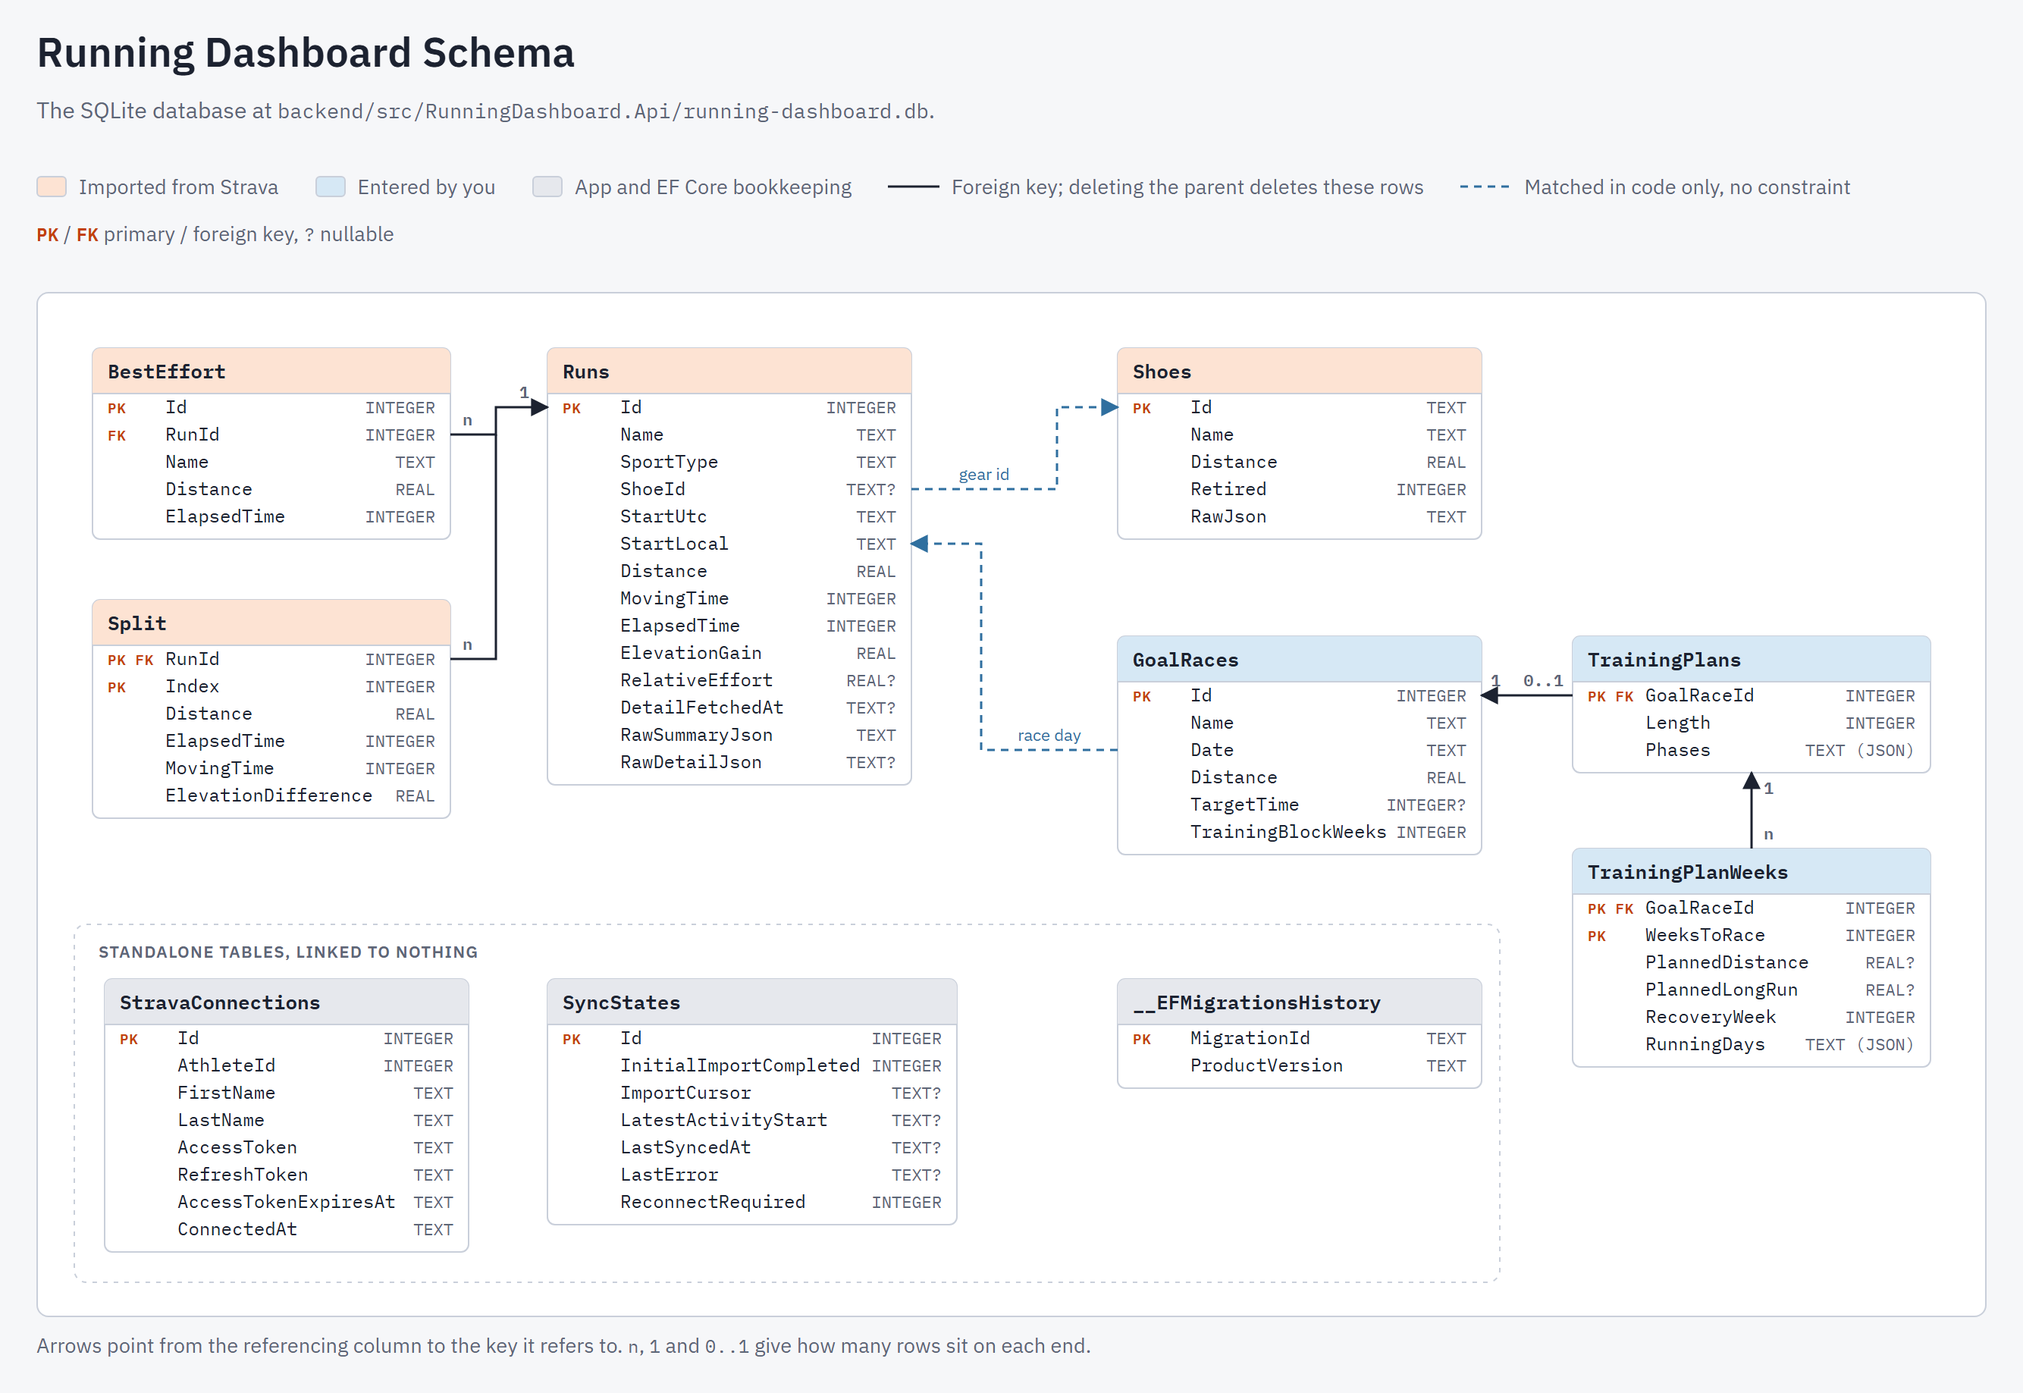
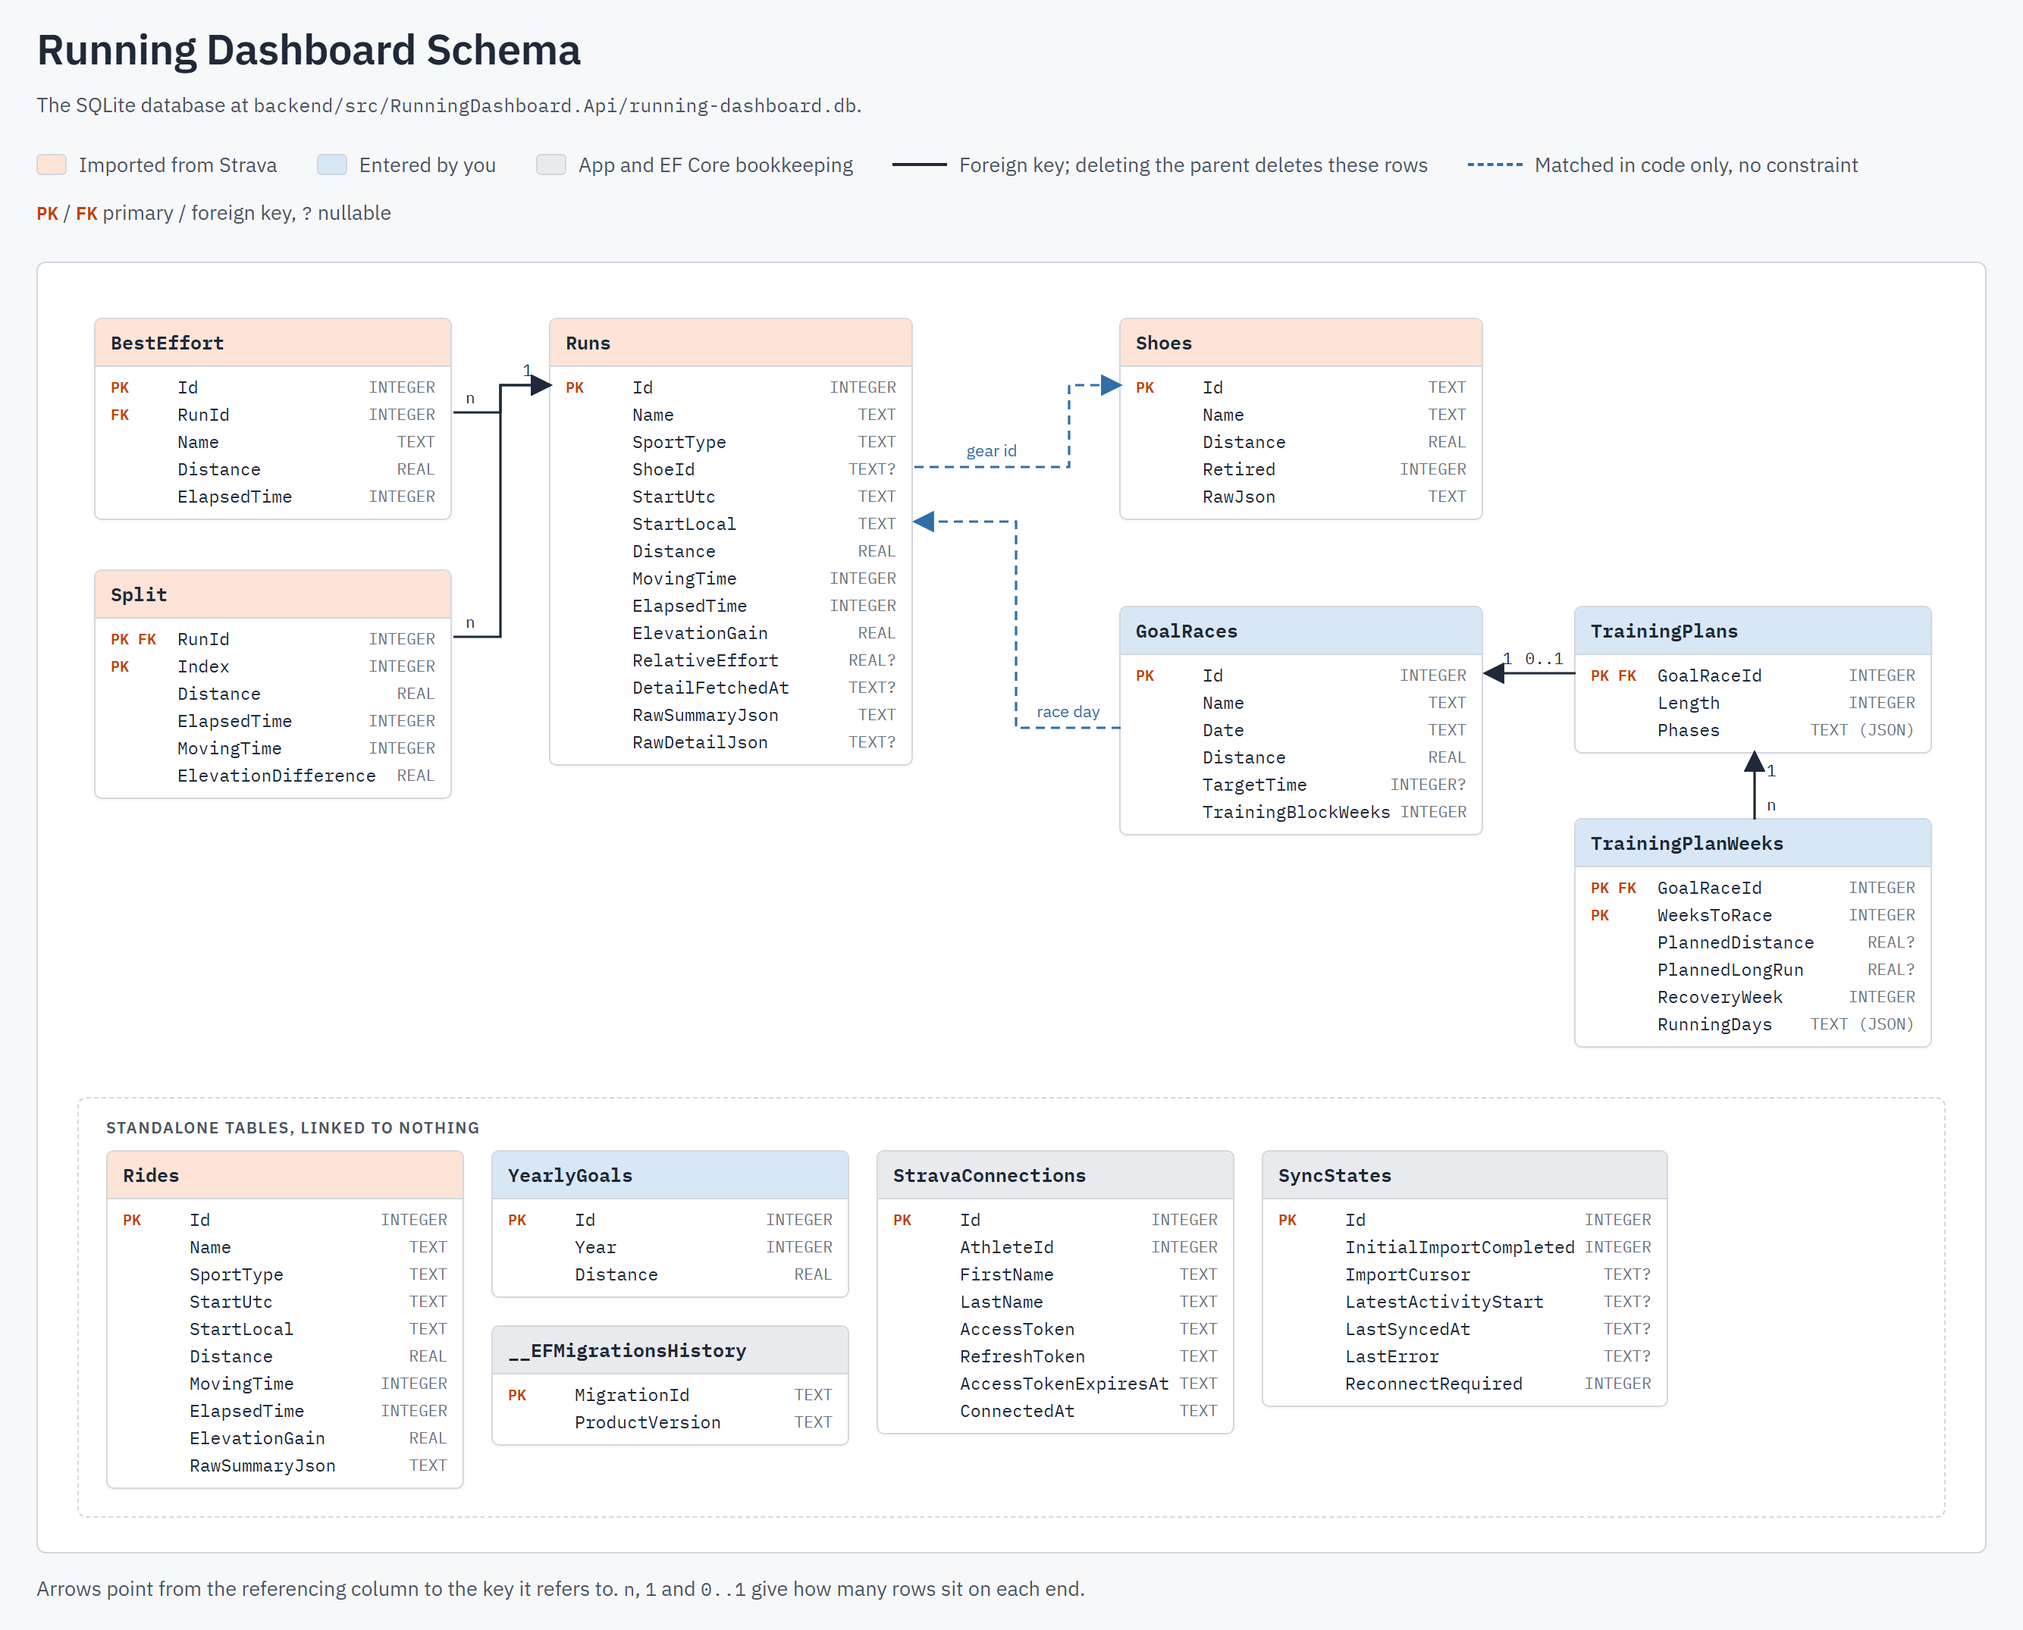
updated docs

diff --git a/docs/database-schema.html b/docs/database-schema.html
@@ -1,0 +1,269 @@
+<!doctype html>
+<!--
+  Source of database-schema.png. After changing the tables below, render it again (from the repo root):
+  msedge --headless=new --disable-gpu --hide-scrollbars --force-device-scale-factor=2 --window-size=1334,1075
+         --virtual-time-budget=5000 --screenshot=docs/database-schema.png file:///<repo>/docs/database-schema.html
+  The tables follow backend/src/RunningDashboard.Api/Persistence/Migrations/AppDbContextModelSnapshot.cs.
+-->
+<html lang="en">
+<head>
+<meta charset="utf-8">
+<title>Running Dashboard Schema</title>
+<link rel="preconnect" href="https://fonts.googleapis.com">
+<link href="https://fonts.googleapis.com/css2?family=IBM+Plex+Mono:wght@400;500;600&family=IBM+Plex+Sans:wght@400;600&display=swap" rel="stylesheet">
+<style>
+  :root {
+    --text: #1f2937;
+    --muted: #4b5563;
+    --faint: #6b7280;
+    --border: #d4d8de;
+    --strava: #fde4d6;
+    --you: #d8e7f5;
+    --app: #e8eaee;
+    --key: #c2410c;
+    --link: #2f6fa8;
+  }
+
+  * { box-sizing: border-box; }
+
+  html, body {
+    margin: 0;
+    background: #f7f8fa;
+    color: var(--text);
+    font-family: 'IBM Plex Sans', 'Segoe UI', sans-serif;
+  }
+
+  .page { width: 1334px; padding: 14px 24px 20px; }
+
+  h1 { margin: 0 0 10px; font-size: 28px; font-weight: 600; letter-spacing: -0.01em; }
+
+  .subtitle, .legend, .footer { color: var(--muted); font-size: 13.5px; }
+
+  .subtitle { margin: 0 0 22px; }
+
+  code { font-family: 'IBM Plex Mono', Consolas, monospace; font-size: 12.5px; }
+
+  .legend { display: flex; flex-wrap: wrap; align-items: center; gap: 12px 26px; margin-bottom: 14px; }
+  .legend span { display: inline-flex; align-items: center; gap: 8px; }
+  .swatch { width: 20px; height: 14px; border: 1px solid var(--border); border-radius: 3px; }
+  .line { width: 36px; border-top: 2px solid var(--text); }
+  .line.dashed { border-top: 2px dashed var(--link); }
+  .keys { color: var(--muted); font-size: 13.5px; margin-bottom: 24px; }
+  .keys b { color: var(--key); font-family: 'IBM Plex Mono', Consolas, monospace; font-weight: 600; font-size: 12px; }
+
+  .card { position: relative; height: 900px; border: 1px solid var(--border); border-radius: 6px; background: #fff; }
+
+  .table {
+    position: absolute;
+    border: 1px solid var(--border);
+    border-radius: 5px;
+    background: #fff;
+    font-family: 'IBM Plex Mono', Consolas, monospace;
+    font-size: 11.5px;
+    box-shadow: 0 1px 2px rgb(0 0 0 / 4%);
+  }
+
+  .table h2 {
+    margin: 0;
+    padding: 7px 10px;
+    border-bottom: 1px solid var(--border);
+    border-radius: 4px 4px 0 0;
+    font-size: 12.5px;
+    font-weight: 600;
+  }
+
+  .strava h2 { background: var(--strava); }
+  .you h2 { background: var(--you); }
+  .app h2 { background: var(--app); }
+
+  .rows { padding: 4px 0 6px; }
+  .row { display: grid; grid-template-columns: 38px 1fr auto; align-items: center; height: 18px; padding: 0 10px; gap: 6px; }
+  .row .key { color: var(--key); font-size: 10px; font-weight: 600; }
+  .row .type { color: var(--faint); font-size: 10.5px; }
+
+  .standalone {
+    position: absolute;
+    left: 26px;
+    right: 26px;
+    border: 1px dashed var(--border);
+    border-radius: 6px;
+    padding: 34px 18px 18px;
+  }
+
+  .standalone .label {
+    position: absolute;
+    top: 12px;
+    left: 18px;
+    color: var(--muted);
+    font-size: 10.5px;
+    font-weight: 600;
+    letter-spacing: 0.08em;
+  }
+
+  .standalone .tables { display: flex; flex-wrap: wrap; align-items: flex-start; gap: 18px; }
+  .standalone .table { position: static; width: max-content; min-width: 236px; }
+  .standalone .stack { display: flex; flex-direction: column; gap: 18px; }
+
+  svg { position: absolute; inset: 0; width: 100%; height: 100%; overflow: visible; pointer-events: none; }
+  svg text { font-family: 'IBM Plex Mono', Consolas, monospace; font-size: 10.5px; fill: var(--text); }
+  svg text.link { font-family: 'IBM Plex Sans', 'Segoe UI', sans-serif; font-size: 11px; fill: var(--link); }
+
+  .footer { margin-top: 14px; }
+</style>
+</head>
+<body>
+<div class="page">
+  <h1>Running Dashboard Schema</h1>
+  <p class="subtitle">The SQLite database at <code>backend/src/RunningDashboard.Api/running-dashboard.db</code>.</p>
+  <div class="legend">
+    <span><i class="swatch" style="background: var(--strava)"></i>Imported from Strava</span>
+    <span><i class="swatch" style="background: var(--you)"></i>Entered by you</span>
+    <span><i class="swatch" style="background: var(--app)"></i>App and EF Core bookkeeping</span>
+    <span><i class="line"></i>Foreign key; deleting the parent deletes these rows</span>
+    <span><i class="line dashed"></i>Matched in code only, no constraint</span>
+  </div>
+  <div class="keys"><b>PK</b> / <b>FK</b> primary / foreign key, <code>?</code> nullable</div>
+
+  <div class="card" id="card">
+    <div class="standalone" id="standalone">
+      <span class="label">STANDALONE TABLES, LINKED TO NOTHING</span>
+      <div class="tables" id="standalone-tables"></div>
+    </div>
+  </div>
+
+  <p class="footer">Arrows point from the referencing column to the key it refers to. <code>n</code>, <code>1</code> and <code>0..1</code> give how many rows sit on each end.</p>
+</div>
+
+<script>
+  // [key, column, type]; kind: strava (imported), you (entered), app (bookkeeping).
+  const linked = [
+    { id: 'BestEffort', kind: 'strava', at: [37, 36, 236], columns: [
+      ['PK', 'Id', 'INTEGER'], ['FK', 'RunId', 'INTEGER'], ['', 'Name', 'TEXT'], ['', 'Distance', 'REAL'], ['', 'ElapsedTime', 'INTEGER']] },
+    { id: 'Split', kind: 'strava', at: [37, 202, 236], columns: [
+      ['PK FK', 'RunId', 'INTEGER'], ['PK', 'Index', 'INTEGER'], ['', 'Distance', 'REAL'], ['', 'ElapsedTime', 'INTEGER'],
+      ['', 'MovingTime', 'INTEGER'], ['', 'ElevationDifference', 'REAL']] },
+    { id: 'Runs', kind: 'strava', at: [337, 36, 240], columns: [
+      ['PK', 'Id', 'INTEGER'], ['', 'Name', 'TEXT'], ['', 'SportType', 'TEXT'], ['', 'ShoeId', 'TEXT?'], ['', 'StartUtc', 'TEXT'],
+      ['', 'StartLocal', 'TEXT'], ['', 'Distance', 'REAL'], ['', 'MovingTime', 'INTEGER'], ['', 'ElapsedTime', 'INTEGER'],
+      ['', 'ElevationGain', 'REAL'], ['', 'RelativeEffort', 'REAL?'], ['', 'DetailFetchedAt', 'TEXT?'], ['', 'RawSummaryJson', 'TEXT'],
+      ['', 'RawDetailJson', 'TEXT?']] },
+    { id: 'Shoes', kind: 'strava', at: [713, 36, 240], columns: [
+      ['PK', 'Id', 'TEXT'], ['', 'Name', 'TEXT'], ['', 'Distance', 'REAL'], ['', 'Retired', 'INTEGER'], ['', 'RawJson', 'TEXT']] },
+    { id: 'GoalRaces', kind: 'you', at: [713, 226, 240], columns: [
+      ['PK', 'Id', 'INTEGER'], ['', 'Name', 'TEXT'], ['', 'Date', 'TEXT'], ['', 'Distance', 'REAL'], ['', 'TargetTime', 'INTEGER?'],
+      ['', 'TrainingBlockWeeks', 'INTEGER']] },
+    { id: 'TrainingPlans', kind: 'you', at: [1013, 226, 236], columns: [
+      ['PK FK', 'GoalRaceId', 'INTEGER'], ['', 'Length', 'INTEGER'], ['', 'Phases', 'TEXT (JSON)']] },
+    { id: 'TrainingPlanWeeks', kind: 'you', at: [1013, 366, 236], columns: [
+      ['PK FK', 'GoalRaceId', 'INTEGER'], ['PK', 'WeeksToRace', 'INTEGER'], ['', 'PlannedDistance', 'REAL?'], ['', 'PlannedLongRun', 'REAL?'],
+      ['', 'RecoveryWeek', 'INTEGER'], ['', 'RunningDays', 'TEXT (JSON)']] },
+  ];
+
+  // One entry per column; an array stacks its tables.
+  const standalone = [
+    { id: 'Rides', kind: 'strava', columns: [
+      ['PK', 'Id', 'INTEGER'], ['', 'Name', 'TEXT'], ['', 'SportType', 'TEXT'], ['', 'StartUtc', 'TEXT'], ['', 'StartLocal', 'TEXT'],
+      ['', 'Distance', 'REAL'], ['', 'MovingTime', 'INTEGER'], ['', 'ElapsedTime', 'INTEGER'], ['', 'ElevationGain', 'REAL'],
+      ['', 'RawSummaryJson', 'TEXT']] },
+    [
+      { id: 'YearlyGoals', kind: 'you', columns: [['PK', 'Id', 'INTEGER'], ['', 'Year', 'INTEGER'], ['', 'Distance', 'REAL']] },
+      { id: '__EFMigrationsHistory', kind: 'app', columns: [['PK', 'MigrationId', 'TEXT'], ['', 'ProductVersion', 'TEXT']] },
+    ],
+    { id: 'StravaConnections', kind: 'app', columns: [
+      ['PK', 'Id', 'INTEGER'], ['', 'AthleteId', 'INTEGER'], ['', 'FirstName', 'TEXT'], ['', 'LastName', 'TEXT'], ['', 'AccessToken', 'TEXT'],
+      ['', 'RefreshToken', 'TEXT'], ['', 'AccessTokenExpiresAt', 'TEXT'], ['', 'ConnectedAt', 'TEXT']] },
+    { id: 'SyncStates', kind: 'app', columns: [
+      ['PK', 'Id', 'INTEGER'], ['', 'InitialImportCompleted', 'INTEGER'], ['', 'ImportCursor', 'TEXT?'], ['', 'LatestActivityStart', 'TEXT?'],
+      ['', 'LastSyncedAt', 'TEXT?'], ['', 'LastError', 'TEXT?'], ['', 'ReconnectRequired', 'INTEGER']] },
+  ];
+
+  // [from table.column, side, to table.column, side, style, label, source end, target end, x of the vertical stretch]
+  const links = [
+    ['BestEffort.RunId', 'right', 'Runs.Id', 'left', 'fk', null, 'n', '1', 305],
+    ['Split.RunId', 'right', 'Runs.Id', 'left', 'fk', null, 'n', null, 305],
+    ['Runs.ShoeId', 'right', 'Shoes.Id', 'left', 'code', 'gear id', null, null, 680],
+    ['GoalRaces.Date', 'left', 'Runs.StartLocal', 'right', 'code', 'race day', null, null, 645],
+    ['TrainingPlans.GoalRaceId', 'left', 'GoalRaces.Id', 'right', 'fk', null, '0..1', '1', null],
+  ];
+
+  const card = document.getElementById('card');
+
+  function render(table) {
+    const element = document.createElement('div');
+    element.className = `table ${table.kind}`;
+    element.innerHTML = `<h2>${table.id}</h2><div class="rows">${table.columns.map(([key, name, type]) =>
+      `<div class="row" id="${table.id}.${name}"><span class="key">${key}</span><span>${name}</span><span class="type">${type}</span></div>`).join('')}</div>`;
+    return element;
+  }
+
+  for (const table of linked) {
+    const element = render(table);
+    const [left, top, width] = table.at;
+    Object.assign(element.style, { left: `${left}px`, top: `${top}px`, width: `${width}px` });
+    card.appendChild(element);
+  }
+  for (const entry of standalone) {
+    const column = document.createElement('div');
+    column.className = 'stack';
+    for (const table of [entry].flat()) column.appendChild(render(table));
+    document.getElementById('standalone-tables').appendChild(column);
+  }
+
+  // The standalone tables sit below the linked ones; the card ends below them.
+  const bottom = Math.max(...[...card.querySelectorAll(':scope > .table')].map((t) => t.offsetTop + t.offsetHeight));
+  const box = document.getElementById('standalone');
+  box.style.top = `${bottom + 34}px`;
+  card.style.height = `${box.offsetTop + box.offsetHeight + 26}px`;
+
+  const svgNs = 'http://www.w3.org/2000/svg';
+  const svg = document.createElementNS(svgNs, 'svg');
+  svg.innerHTML = `<defs>
+    <marker id="fk" viewBox="0 0 10 10" refX="9" refY="5" markerWidth="9" markerHeight="9" orient="auto-start-reverse"><path d="M0 0L10 5L0 10z" fill="#1f2937"/></marker>
+    <marker id="code" viewBox="0 0 10 10" refX="9" refY="5" markerWidth="9" markerHeight="9" orient="auto-start-reverse"><path d="M0 0L10 5L0 10z" fill="#2f6fa8"/></marker>
+  </defs>`;
+  card.appendChild(svg);
+
+  const origin = card.getBoundingClientRect();
+  function point(column, side) {
+    const r = document.getElementById(column).closest('.table').getBoundingClientRect();
+    const row = document.getElementById(column).getBoundingClientRect();
+    return { x: (side === 'right' ? r.right : r.left) - origin.left, y: row.top + row.height / 2 - origin.top };
+  }
+
+  function text(x, y, content, anchor, className) {
+    const t = document.createElementNS(svgNs, 'text');
+    Object.entries({ x, y, 'text-anchor': anchor }).forEach(([k, v]) => t.setAttribute(k, v));
+    if (className) t.setAttribute('class', className);
+    t.textContent = content;
+    svg.appendChild(t);
+  }
+
+  function path(d, style) {
+    const p = document.createElementNS(svgNs, 'path');
+    Object.entries({
+      d, fill: 'none', 'stroke-width': 1.6, stroke: style === 'fk' ? '#1f2937' : '#2f6fa8', 'marker-end': `url(#${style})`,
+      ...(style === 'code' ? { 'stroke-dasharray': '6 4' } : {}),
+    }).forEach(([k, v]) => p.setAttribute(k, v));
+    svg.appendChild(p);
+  }
+
+  for (const [from, fromSide, to, toSide, style, label, sourceEnd, targetEnd, midX] of links) {
+    const s = point(from, fromSide);
+    const t = point(to, toSide);
+    const out = fromSide === 'right' ? 1 : -1;
+    path(midX === null ? `M${s.x} ${s.y}H${t.x}` : `M${s.x} ${s.y}H${midX}V${t.y}H${t.x}`, style);
+    if (sourceEnd) text(s.x + out * 8, s.y - 6, sourceEnd, out > 0 ? 'start' : 'end');
+    if (targetEnd) text(t.x - out * 12, t.y - 6, targetEnd, out > 0 ? 'end' : 'start');
+    if (label) text((s.x + midX) / 2, s.y - 7, label, 'middle', 'link');
+  }
+
+  // TrainingPlanWeeks hangs below TrainingPlans: up from its top edge to the plan's bottom edge.
+  const weeks = document.getElementById('TrainingPlanWeeks.GoalRaceId').closest('.table').getBoundingClientRect();
+  const plans = document.getElementById('TrainingPlans.GoalRaceId').closest('.table').getBoundingClientRect();
+  const x = plans.left + plans.width / 2 - origin.left;
+  path(`M${x} ${weeks.top - origin.top}V${plans.bottom - origin.top}`, 'fk');
+  text(x + 8, weeks.top - origin.top - 6, 'n', 'start');
+  text(x + 8, plans.bottom - origin.top + 16, '1', 'start');
+</script>
+</body>
+</html>

diff --git a/docs/adr/0002-polling-sync-with-recent-window.md b/docs/adr/0002-polling-sync-with-recent-window.md
@@ -1,6 +1,6 @@
 # Sync by polling, and recheck only the 20 most recent Activities for edits
 
-The app runs locally, so Strava webhooks can't reach it. Instead it syncs when the backend starts and when the Athlete presses "Sync now". The first import is a background job that can resume after stopping, and it stays within Strava's read limits of about 100 requests per 15 minutes and 1,000 per day. To catch Runs that were edited or deleted on Strava, each sync compares only the 20 most recent Activities, which is one request, against the stored data. The Athlete only ever edits recent Runs. An edit or deletion older than that window is accepted as a known blind spot.
+The app runs locally, so Strava webhooks can't reach it. Instead it syncs when the backend starts and when the Athlete presses "Sync now". The first import is a background job that can resume after stopping, and it stays within Strava's read limits of about 100 requests per 15 minutes and 1,000 per day. To catch Runs (and Rides) that were edited or deleted on Strava, each sync compares only the 20 most recent Activities, which is one request, against the stored data. The Athlete only ever edits recent Activities. An edit or deletion older than that window is accepted as a known blind spot.
 
 ## Consequences
 

diff --git a/README.md b/README.md
@@ -1,6 +1,6 @@
 # Running Dashboard
 
-A local dashboard for one Athlete's Strava running history and marathon training. See [CONTEXT.md](CONTEXT.md) for the domain language, [docs/specs](docs/specs) for the spec and tickets, [docs/adr](docs/adr) for decisions, and [docs/database-schema.png](docs/database-schema.png) for the database tables.
+A local dashboard for one Athlete's Strava running history and marathon training, with a plain list of their Rides on the side. See [CONTEXT.md](CONTEXT.md) for the domain language, [docs/specs](docs/specs) for the spec and tickets, [docs/adr](docs/adr) for decisions, and [docs/database-schema.png](docs/database-schema.png) for the database tables (drawn from [docs/database-schema.html](docs/database-schema.html), which says how to render it again).
 
 ## One-time setup
 

diff --git a/CONTEXT.md b/CONTEXT.md
@@ -22,7 +22,7 @@ A Strava activity with a cycling sport type: road, virtual, gravel or mountain b
 _Avoid_: Cycle, bike ride, workout
 
 **Avg Speed**:
-A Ride's distance per Moving Time, in km/h (or mph when the Ride history shows miles). Rides have it instead of a Pace.
+A Ride's distance per Moving Time, in km/h. Rides have it instead of a Pace.
 _Avoid_: Pace (for Rides), velocity
 
 **Moving Time**:
